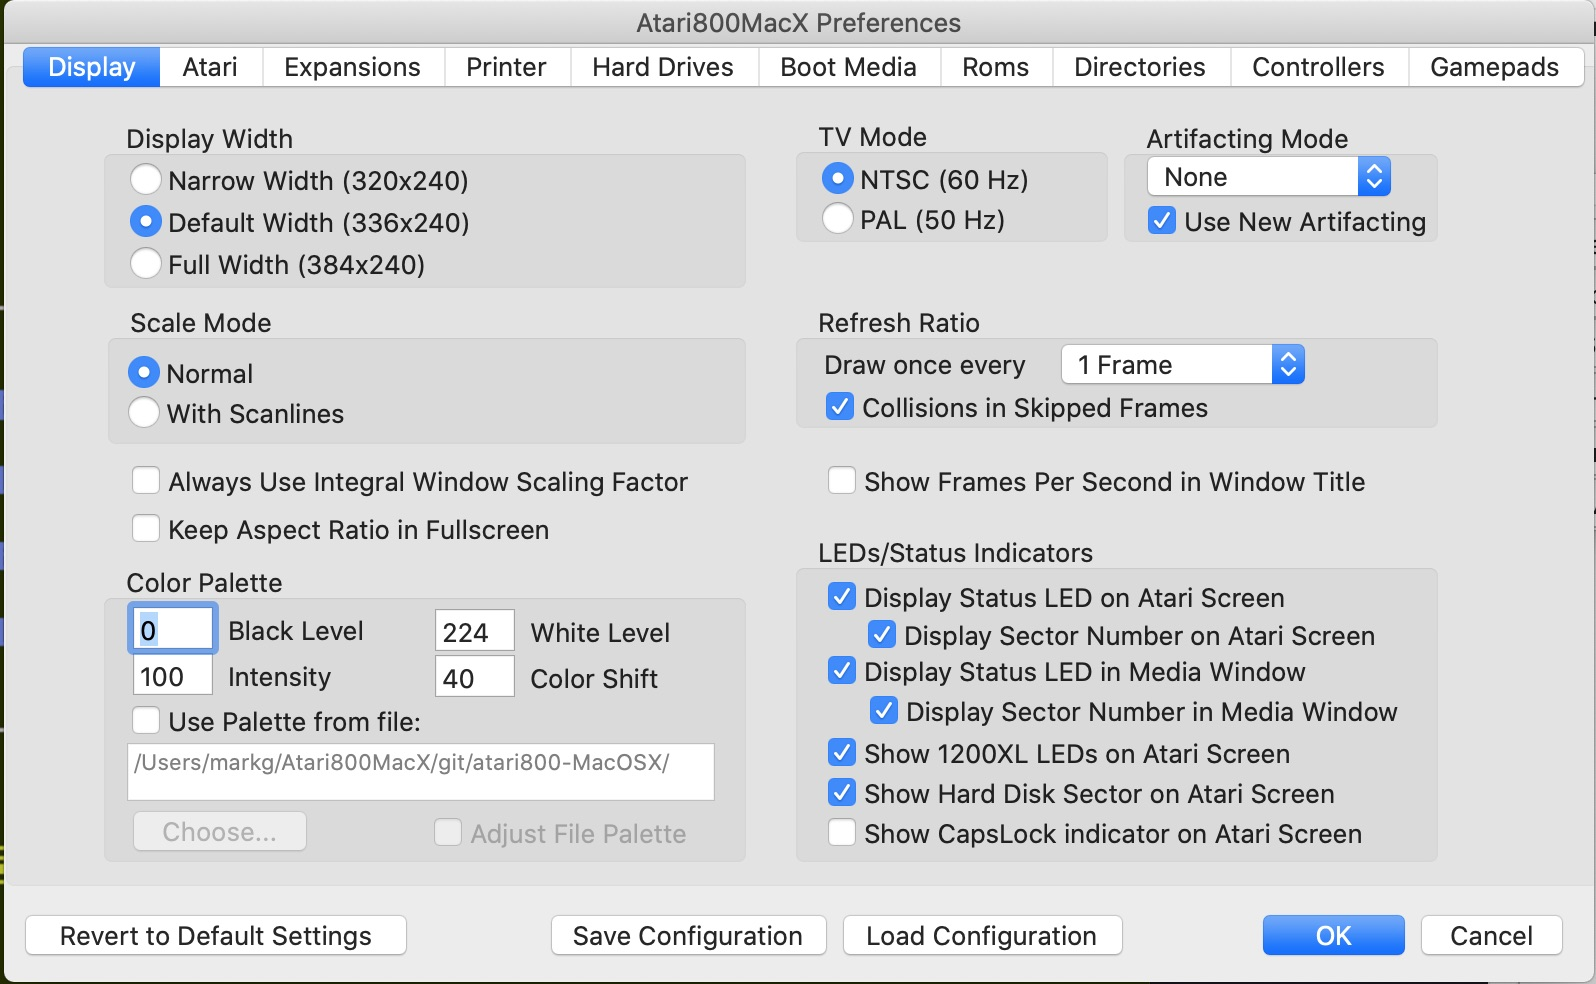
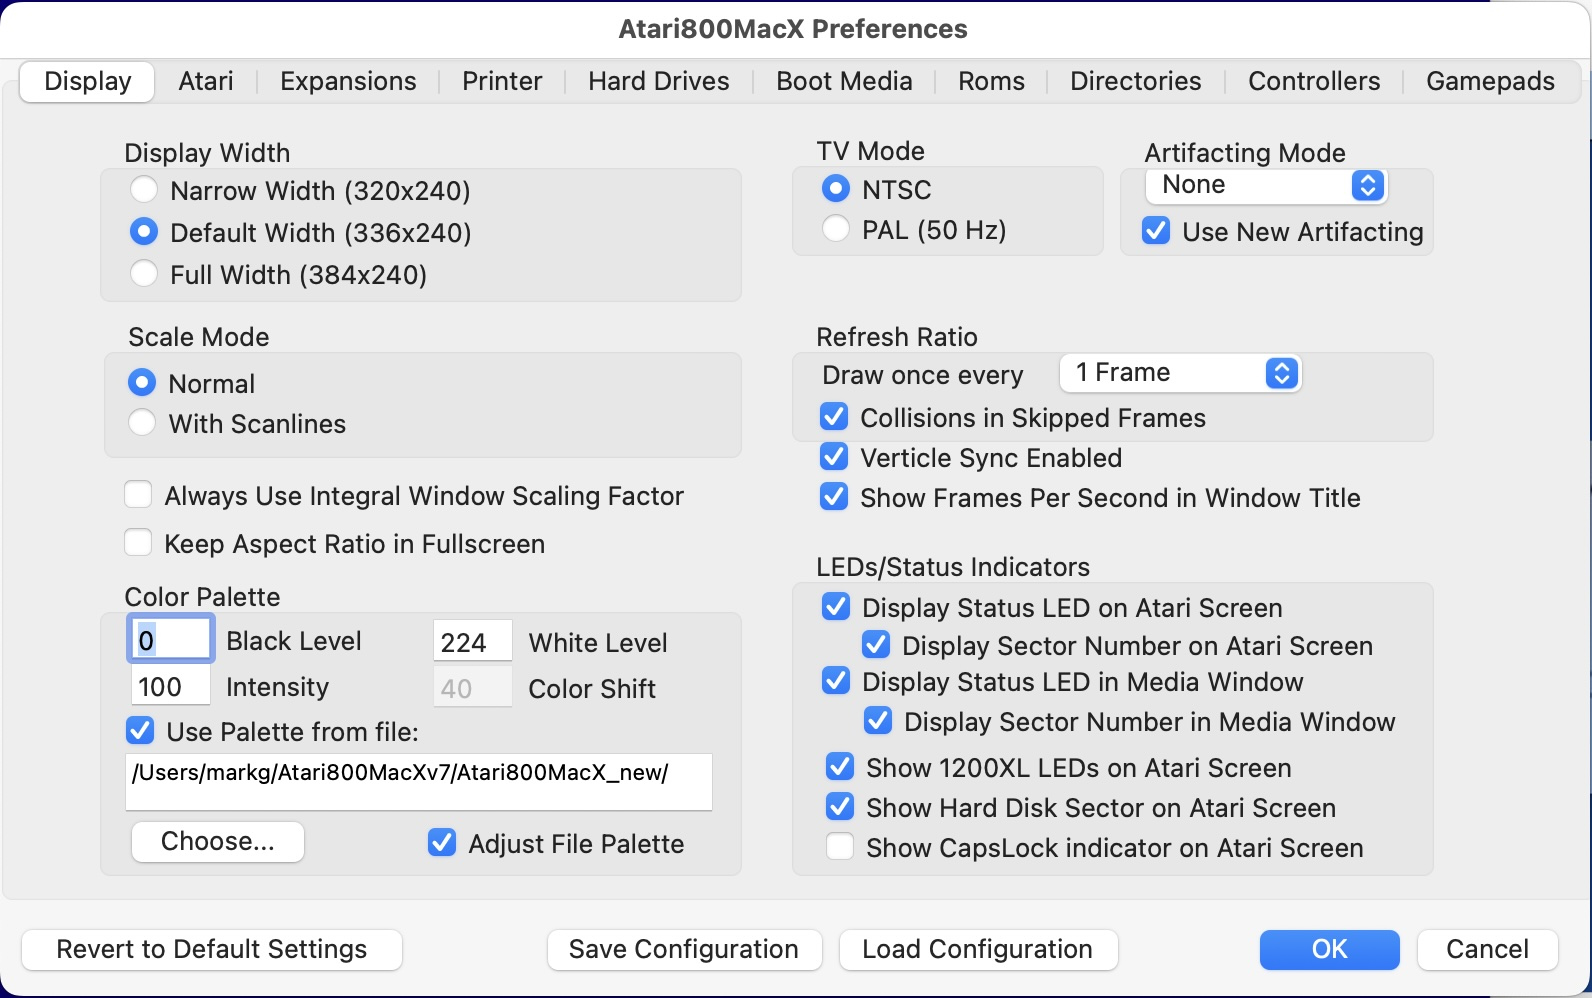
Document verticle sync additions

diff --git a/atari800-MacOSX/src/Atari800MacX/Atari800MacX Help/DisplayTab.html b/atari800-MacOSX/src/Atari800MacX/Atari800MacX Help/DisplayTab.html
@@ -136,6 +136,10 @@ for colors 32-47, etc.</li>
 <blockquote>Each parameter must be an integer within range 0-255.<br>
 </blockquote>
 
+<b><u>Vertical Sync Enabled</u></b><br>
+<b> </b>
+<blockquote>This checkboxd allows you to turn on or off using VSYNC with the display.  Vertical sync (VSync) in SDL is a method used to synchronize the frame rate of the emulator with the refresh rate of the monitor, helping to prevent screen tearing. By enabling VSync, the emulator will wait for the monitor to finish displaying the current frame before presenting the next one, ensuring smoother visuals.&nbsp;</blockquote>
+
 <b><u>Show Frames Per Second In Window Title</u></b><br>
 <b> </b>
 <blockquote>This checkbox lets you choose to display the Frames Per

diff --git a/atari800-MacOSX/src/Atari800MacX/Atari800MacX Help/DisplayMenu.html b/atari800-MacOSX/src/Atari800MacX/Atari800MacX Help/DisplayMenu.html
@@ -223,7 +223,10 @@ when one of the 80 column cards are connected.<br>
 <blockquote>This menu item allows you toggle on or off the display of
 the emulators frames per second in the Window Title.&nbsp;</blockquote>
 
+<b><u>Toggle Vertical Sync Enabled on/off</u><br>
 
+</b>
+<blockquote>This menu item allows you toggle on or off using VSYNC with the display.  Vertical sync (VSync) in SDL is a method used to synchronize the frame rate of the emulator with the refresh rate of the monitor, helping to prevent screen tearing. By enabling VSync, the emulator will wait for the monitor to finish displaying the current frame before presenting the next one, ensuring smoother visuals.&nbsp;</blockquote>
 
 <b><u>Grab Mouse mode on/off (F16)</u><br>
 

diff --git a/atari800-MacOSX/src/Atari800MacX/Atari800MacX Help/ReleaseHistory.html b/atari800-MacOSX/src/Atari800MacX/Atari800MacX Help/ReleaseHistory.html
@@ -18,7 +18,14 @@ Release History<br>
   </tbody>
 </table>
 
-<br>Version 6.1.1 Release 01-02-20256<br>&nbsp;
+<br>Version 6.1.2 Release 01-04-2026<br>&nbsp;
+&nbsp;Features Added/Changed:<br>
+<ul>
+    <li>Added abilty to turn on/off Vertical Sync (VSYNC) to prevent tearing in the display for smoother graphics.</li>
+</li>
+</ul>
+
+<br>Version 6.1.1 Release 01-02-2026<br>&nbsp;
 &nbsp;&nbsp; Bugs Fixed:<br>
 <ul>
     <li>Fixed issue - Ultimate1mb profile settings not being saved to nvram file</li>
